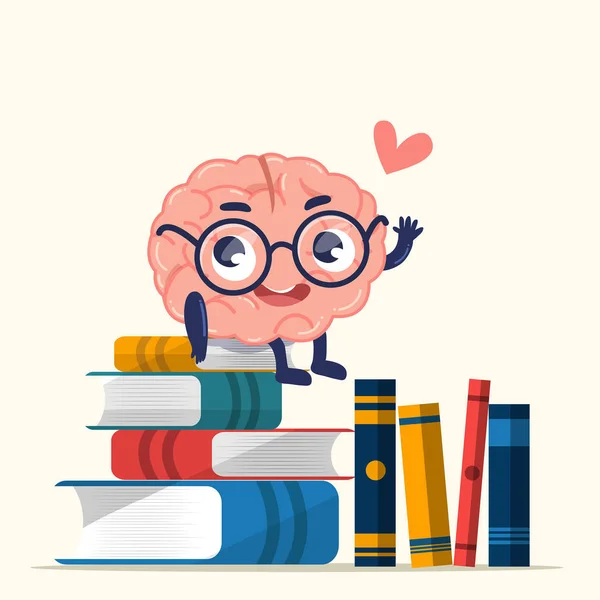
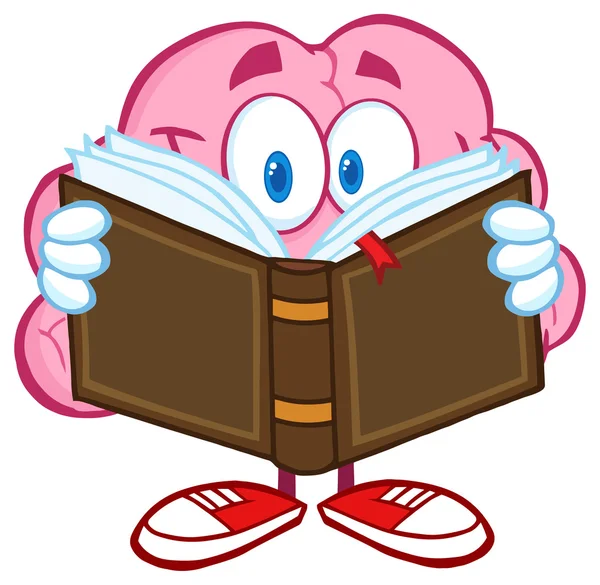
Cambios en el Css de formulario y el Footer de todas las paginas

diff --git a/css/formulario.css b/css/formulario.css
@@ -60,8 +60,7 @@ main {
 
 footer {
   background: linear-gradient(90deg, #be741c, #e09130);
-  border-top: 3px solid #000;
-  padding-bottom: 20px;
+  padding: 10px;
   color: white;
 }
 
@@ -74,4 +73,26 @@ footer {
 .iniform {
   text-align: center;
   margin-block: 35px;
+}
+
+@media (max-width: 768px){
+  .card {
+    width: 80%;
+  }
+}
+
+html{
+
+  height: 100%;
+  margin: 0; 
+}
+
+body {
+  display: flex;  
+  flex-direction: column;
+  min-height: 100vh;
+}
+main
+{
+  flex: 1;
 }

diff --git a/paginas/Formulario.html b/paginas/Formulario.html
@@ -58,7 +58,7 @@
     </div>
   </main>
   <footer class=" py-4 mt-5 border-top text-center">
-    <p class="text-muted mb-0">© 2026 Foxly Academy - Estudiar nunca fue tan pro.</p>
+    <p class="text-muted mb-0">© 2026 Foxly Academy - Tu futuro empieza con lo que aprendes hoy.</p>
   </footer>
   <script src="https://cdn.jsdelivr.net/npm/bootstrap@5.3.8/dist/js/bootstrap.bundle.min.js"
     integrity="sha384-FKyoEForCGlyvwx9Hj09JcYn3nv7wiPVlz7YYwJrWVcXK/BmnVDxM+D2scQbITxI"

diff --git a/index.html b/index.html
@@ -140,7 +140,7 @@
     </section>
   </main>
   <footer class=" py-4 mt-5 border-top text-center">
-    <p class="text-muted mb-0">© 2026 Foxly Academy - Estudiar nunca fue tan pro.</p>
+    <p class="text-muted mb-0">© 2026 Foxly Academy - Tu futuro empieza con lo que aprendes hoy.</p>
   </footer>
   <script src="https://cdn.jsdelivr.net/npm/bootstrap@5.3.0/dist/js/bootstrap.bundle.min.js"></script>
 </body>

diff --git a/paginas/Post_Login/menú.html b/paginas/Post_Login/menú.html
@@ -146,7 +146,7 @@
   </main>
 
   <footer class="bg-white py-4 mt-5 border-top text-center">
-    <p class="text-muted mb-0">© 2026 Foxly Academy - Estudiar nunca fue tan pro.</p>
+    <p class="text-muted mb-0">© 2026 Foxly Academy - Tu futuro empieza con lo que aprendes hoy.</p>
   </footer>
 
   <script src="https://cdn.jsdelivr.net/npm/bootstrap@5.3.0/dist/js/bootstrap.bundle.min.js"></script>

diff --git a/paginas/nosotros.html b/paginas/nosotros.html
@@ -54,7 +54,7 @@
     </section>
   </main>
   <footer class=" py-4 mt-5 border-top text-center">
-        <p class="text-muted mb-0">© 2026 Foxly Academy - Estudiar nunca fue tan pro.</p>
+        <p class="text-muted mb-0">© 2026 Foxly Academy - Tu futuro empieza con lo que aprendes hoy.</p>
     </footer>
 </body>
 
